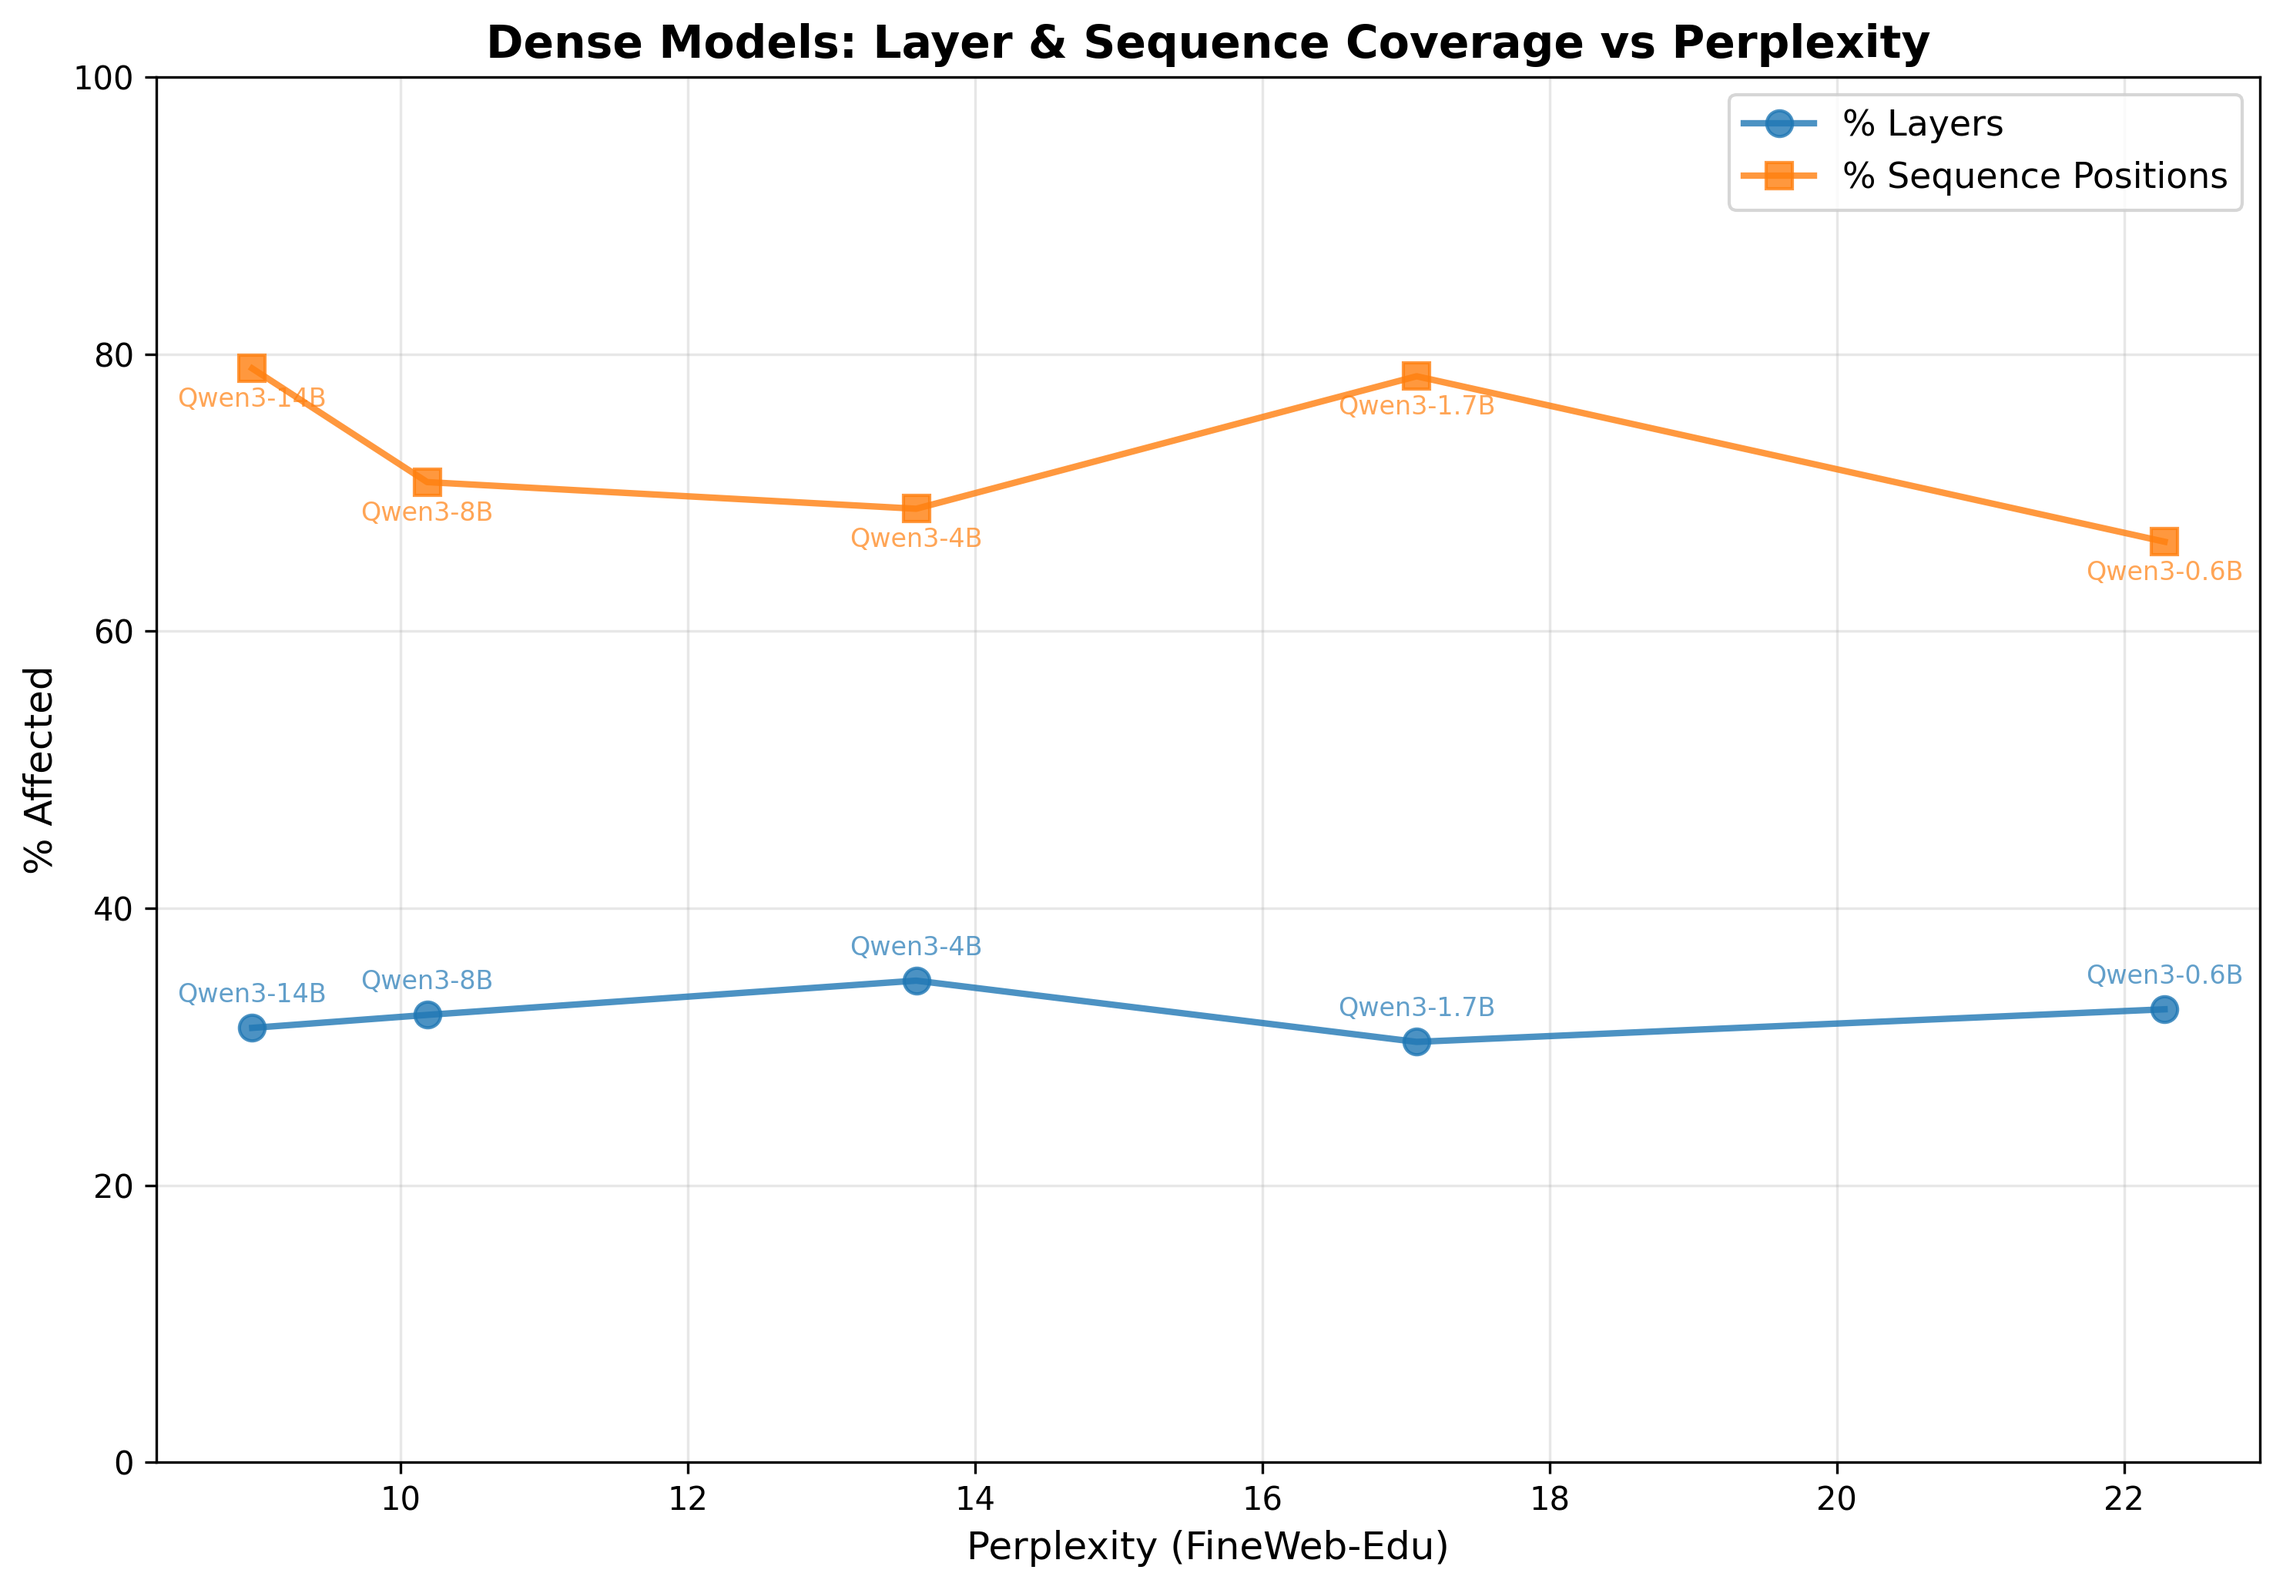
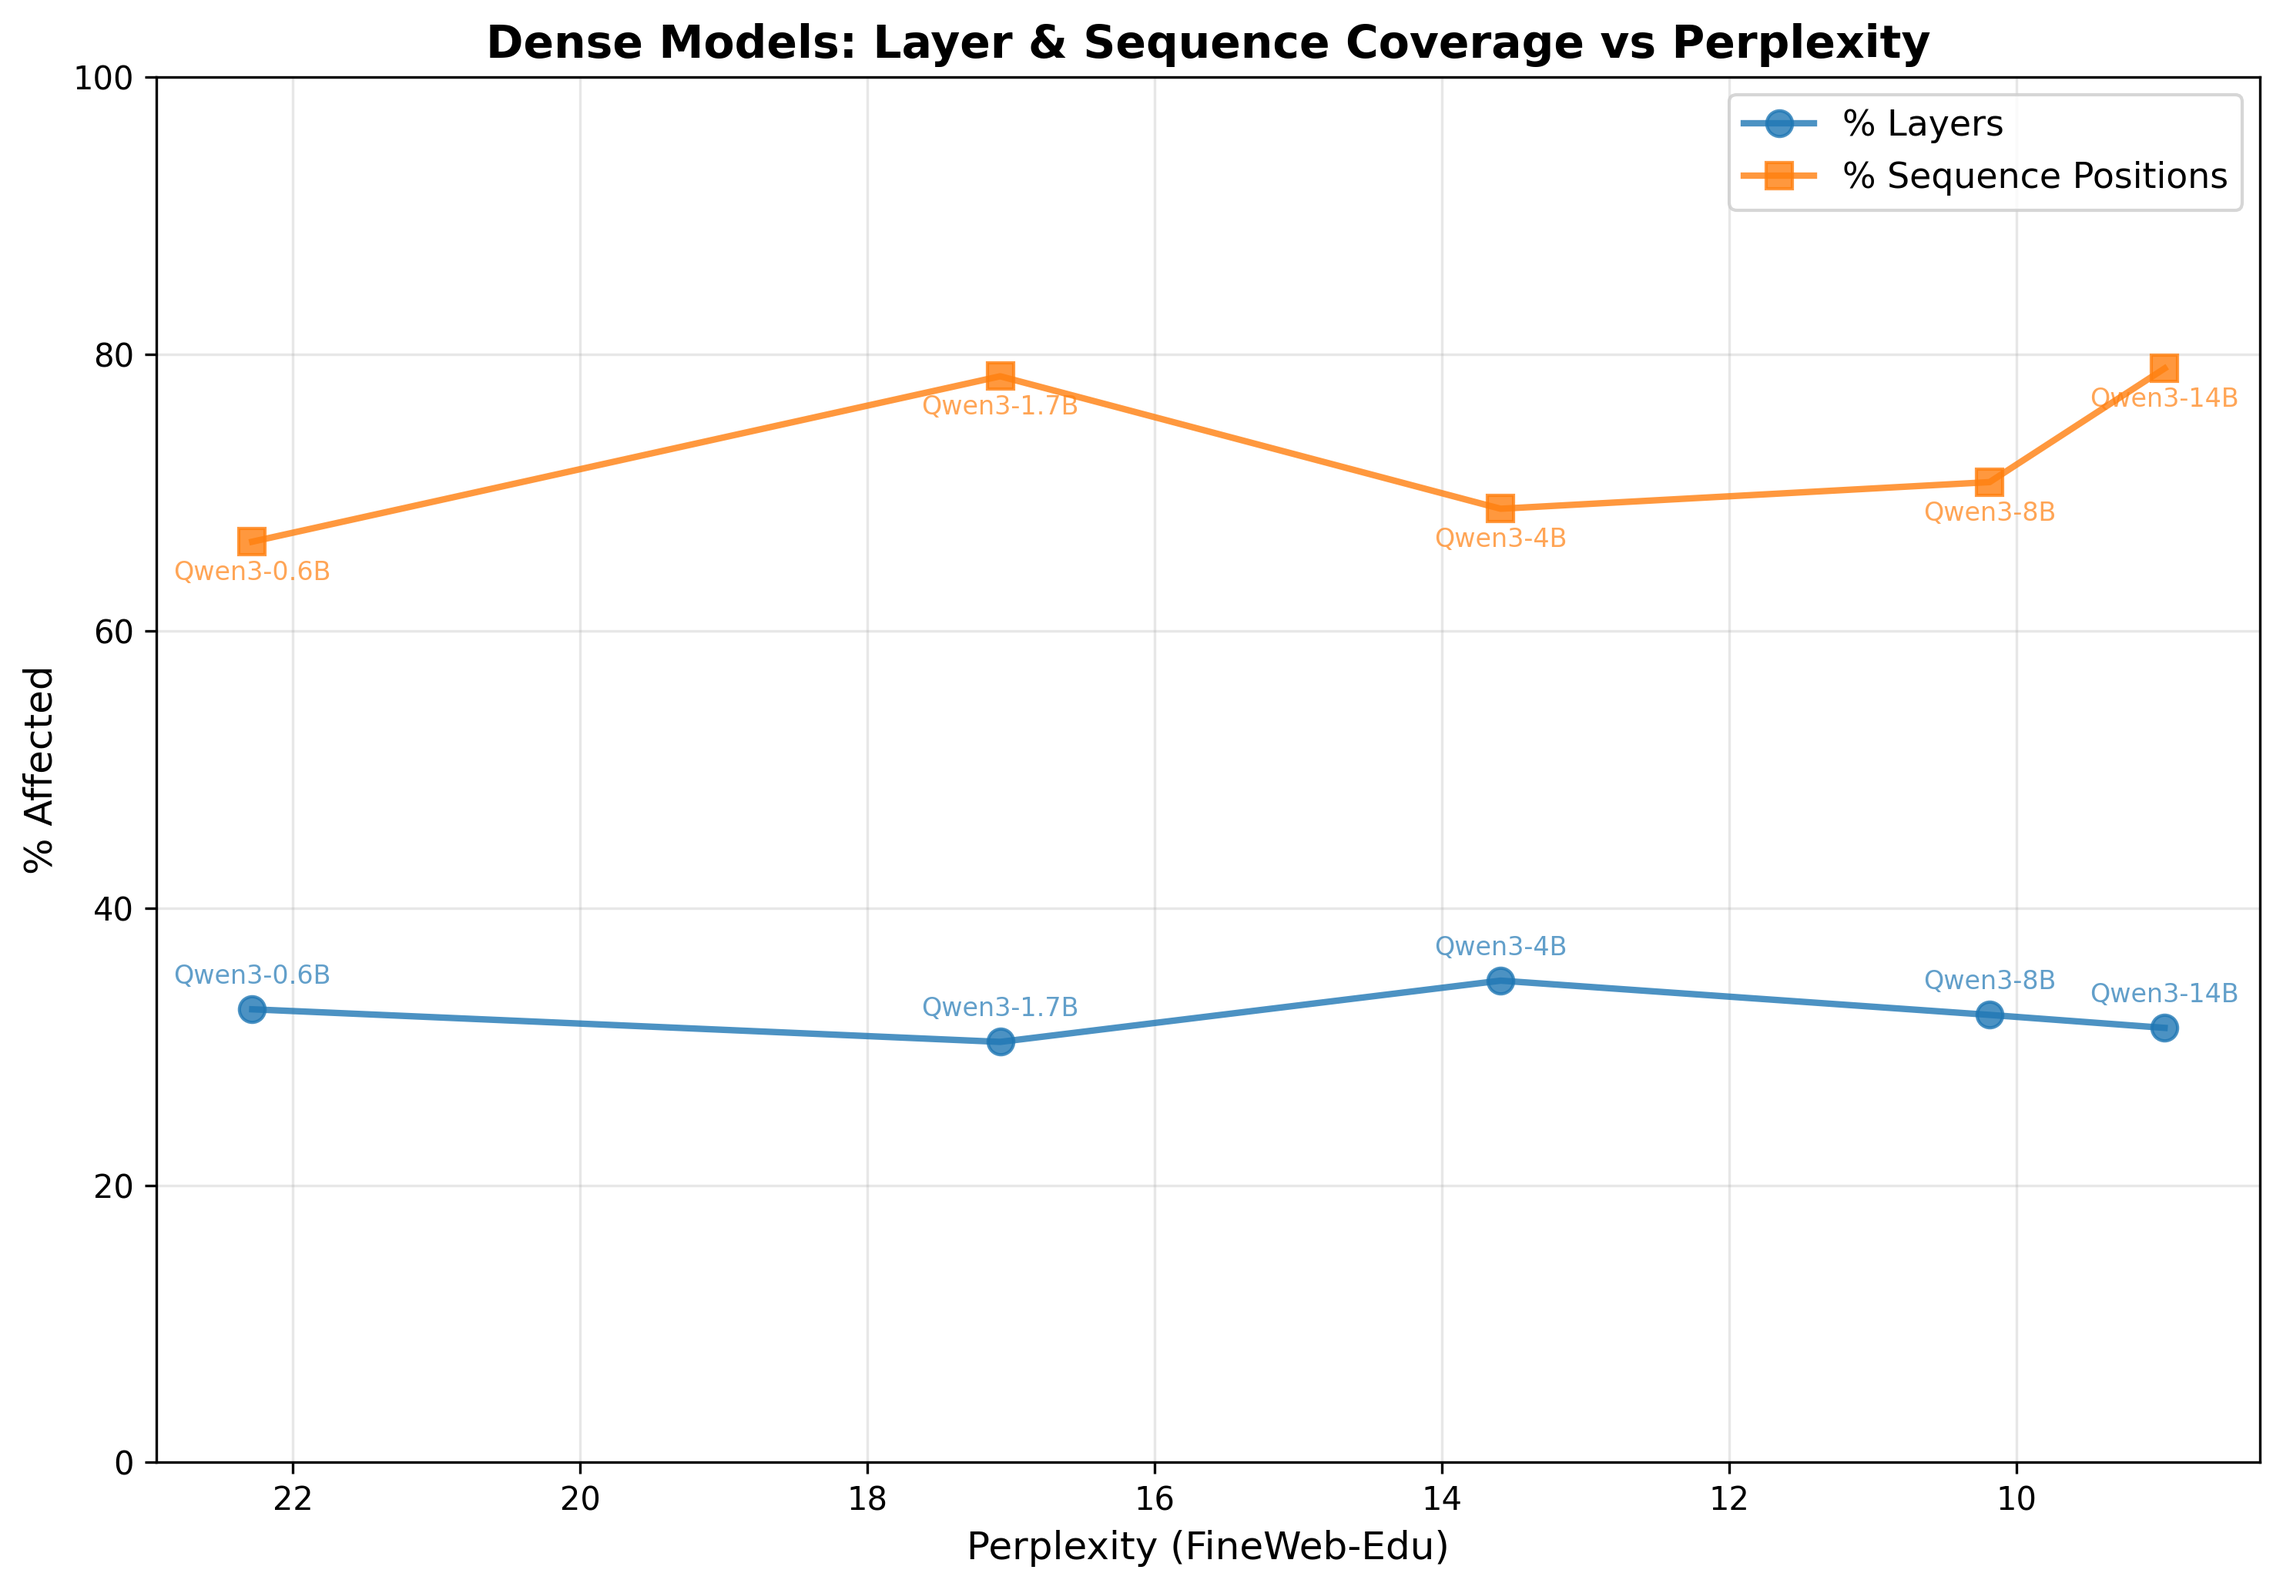
Flip perplexity x-axis and remove MoE perplexity data
- Flip perplexity x-axis to match Dettmers convention (high→low, left→right)
- Remove perplexity column from MoE models table (instruct-tuned, response format issues)
- Add note explaining why perplexity not reported for MoE models
- Update perplexity plot with inverted x-axis
- Add y = prefix to residual stream equations for clarity

🤖 Generated with [Claude Code](https://claude.com/claude-code)

diff --git a/_posts/2025-10-28-outlier-features.md b/_posts/2025-10-28-outlier-features.md
@@ -15,41 +15,47 @@ reading RL rollouts while post-training small models, I noticed a huge gap in in
 
 naturally my first thought upon finding this was 'well is it 7B total or active'. I think the tweets I saw were talking about dense models, so it wasn't exactly clear what the answer would be here. digging through the threads, I found references to Tim Dettmers' 2022 paper on int8 quantization, and decided to read it.
 
-in the process of getting int8 quantization to work, dettmers found what he called 'outlier features' in model residual streams. he found that specific dimension indices had extreme magnitude values (>= 6.0, compared to typical ranges +- 3.5) that showed up across layers and tokens in the residual stream tensor.
+in the process of getting int8 quantization to work, dettmers found what he called 'outlier features' in model residual streams. residual streams act as a communication channel for deep models to more effectively stack processing layers for more depth. rather than computing `y = g_0(g_1(g_2(x)))` and implicitly recomputing the output so far, models can instead compute `y = x + g_0(x) + g_1(x) + g_2(x)`, where each layer reads from and writes to the shared 'working memory' accumulated so far. 
+
+outlier features are essentially specific dimension indices within the residual stream that had extreme magnitude values (>= 6.0, compared to typical ranges +- 3.5) that showed up across layers and tokens in the residual stream tensor.
 
 the intuitive explanation is that transformers have two processing streams: one that processes inputs, and one that suppresses noisy features that aren't relevant to the current context. dedicating specific hidden dimensions to feature removal means that layers can coordinate, and know which dimensions can be multiplied by large values to suppress other features. (more on this [here](https://timdettmers.com/2022/08/17/llm-int8-and-emergent-features/))
 
-to visualize this, here's an example showing how outlier features persist through layer computations. these tensors are in [batch, sequence, hidden_dim] format, with typical values ranging from -3 to +3, but outlier dimensions showing values of 6-9:
+in particular, dettmers studied the presence of outlier features along layers, as well as along a given sequence's tokens. in particular, he dubbed an outlier feature to be one that was present in at least 25% of the layers, 6% of the sequence positions, and magnitude at least 6.0.
+
+here's quick visualization of outlier features persisting through a layer's computations. these tensors are in [batch, sequence, hidden_dim] format (shape 2,3,4), with typical values ranging from -3 to +3, but outlier dimensions showing values of 6-9:
+
 
 ```
-Input residual stream (dimension 2 has outliers):
+input residual stream (dimension 2 has outliers):
 -3   0   6  -2     0   3   6   1
 -2  -3   6   1     3  -1   9  -3
 -2   0   8   3     0  -2   6  -2
 
            +
 
-Layer contribution:
+layer contribution:
 -1   1   1  -1     2  -1   0  -1
 -1   1   1  -1    -2   1   0   1
  1   1   1   2     2  -2   0   2
 
            =
 
-Output residual stream (outlier persists in dimension 2):
+output residual stream (outlier persists in dimension 2):
 -4   1   7  -3     2   2   6   0
 -3  -2   7   0     1   0   9  -2
 -1   1   9   5     2  -4   6   0
 ```
 
-notice how dimension 2 (third column) maintains high values of 6-9 across all sequence positions in both batches, even after adding the layer contribution. this systematic appearance across layers and tokens is what dettmers called "layer coordination."
+
+notice how dimension 2 (third column, hidden dimension) maintains high values of 6-9 across all sequence positions in both batches, even after adding the layer contribution. this systematic appearance across layers and tokens is layer coordination
 
 dettmers' found that these extreme magnitude values in model residual streams started to systematically coordinate across layers around ~6.7B parameters. he called this a phase transition and claimed that 'transformers after the phase shift at 6.7B parameters behave very different to transformers before the phase shift ... one should not try to generalize from <6.7B to beyond'. this is a pretty strong claim, so I thought it would be important for my own experiments to find out how this claim held up for MoE models. 
 
 ![Dettmers Phase Transition](/assets/images/dettmers-phase-transition.png)
 *figure 3 from Dettmers et al. (2022): percentage of layers and sequence dimensions affected by large magnitude outlier features across transformers by (a) model size or (b) C4 perplexity. shows the phase transition at ~6.7B parameters.*
 
-so I ran the experiment Dettmers' did. I swept over 7 MoE models that have come out recently, to try to pinpoint a phase transition point, either based on active/total parameters, or perhaps even related to the sparsity. I suspected it would be based on total params, since that would be more related to 'total model capacity', or that we wouldn't find it at all due to the router.
+so i ran the experiment Dettmers' did. i swept over 7 MoE models that have come out recently, to try to pinpoint a phase transition point, either based on active/total parameters, or perhaps even related to the sparsity. i suspected it would be based on total params, since that would be more related to 'total model capacity', or that we wouldn't find it at all due to the router.
 
 the MoE results were messy - basically no pattern. outliers ranged from 49 to 4,635, layer coordination (L%) was all over the place from 29% to 63%.
 
@@ -59,14 +65,14 @@ the MoE results were messy - basically no pattern. outliers ranged from 49 to 4,
 ![MoE Models - Active Parameters vs Layer & Sequence Coverage](/assets/images/moe_active_params_dual.png)
 *figure 2: similarly messy results when plotted by active parameters*
 
-so I thought my hypothesis about the routing was most likely. but then I remembered these were also 2024-2025 models, and Dettmers was using models from 2022, basically an eternity ago. to be rigorous, I decided to run another sweep on some frontier open dense models, specifically the Qwen3 series
+so i thought my hypothesis about the routing was most likely. but then i remembered these were also 2024-2025 models, and Dettmers was using models from 2022, basically an eternity ago. to be rigorous, i decided to run another sweep on some frontier open dense models, specifically the Qwen3 series
 
 here's where it gets interesting.
 
 ![Dense Models - Parameters vs Layer & Sequence Coverage](/assets/images/dense_params_dual.png)
 *figure 3: qwen3 dense models show stable ~30% layer coordination (blue) and high ~66-79% sequence coverage (orange) across all sizes - no phase transition*
 
-instead of seeing the phase transition Dettmers found at 6.7B, I found something completely different: stable ~30% layer coordination across ALL model sizes. no phase transition. interestingly, the sequence coverage is consistently high (~66-79%), meaning outliers affect most tokens when they appear.
+instead of seeing the phase transition Dettmers found at 6.7B, i found ~30% layer coordination across ALL model sizes. no phase transition. interestingly, the sequence coverage is consistently high (~66-79%), meaning outliers still affect most tokens when they appear.
 
 its not clear what's changed between 2022 and 2025. one hypothesis is that we've had so many architectural improvements between now and 2022: RoPE, RMSNorm, new FFNs/activation functions like SwiGLU. so its hard to say what exactly might have changed the need for these outlier features.
 
@@ -99,15 +105,17 @@ below are some more details on methodology, and the code is available [here](htt
 
 ### MoE Models Results
 
-| Model | Total Params | Active Params | Perplexity | Experts | Top-K | Routing | Outliers | Mean L% | Mean S% |
-|-------|--------------|---------------|------------|---------|-------|---------|----------|---------|---------|
-| OLMoE-1B-7B | 7B | 1.3B | 9.27 | 64 | 8 | Token-based (dropless) | 49 | 29.5% | 13.6% |
-| GPT-OSS-20B | 21B | 3.6B | 389.28 | 128* | 4* | Standard top-k | 1,465 | 38.1% | 45.4% |
-| Qwen3-30B | 30.5B | 3.3B | 9.10 | 128 | 8 | Standard top-k | 110 | 35.5% | 45.1% |
-| Mixtral-8x7B | 47B | 12.9B | 6.04 | 8 | 2 | Standard top-k | 4,635 | 50.2% | 37.4% |
-| Qwen3-Next-80B | 80B | 3.0B | 5.56 | 512+1 shared | 10 | Standard top-k | 504 | 57.5% | 35.1% |
-| GLM-4.5-Air | 106B | 12.0B | - | 128+1 shared | 8 | Sigmoid gating (loss-free balance) | 459 | 63.3% | 45.7% |
-| GPT-OSS-120B | 117B | 5.1B | 93.20 | 128 | 4 | Softmax-weighted top-k | 1,695 | 33.1% | 50.0% |
+| Model | Total Params | Active Params | Experts | Top-K | Routing | Outliers | Mean L% | Mean S% |
+|-------|--------------|---------------|---------|-------|---------|----------|---------|---------|
+| OLMoE-1B-7B | 7B | 1.3B | 64 | 8 | Token-based (dropless) | 49 | 29.5% | 13.6% |
+| GPT-OSS-20B | 21B | 3.6B | 128* | 4* | Standard top-k | 1,465 | 38.1% | 45.4% |
+| Qwen3-30B | 30.5B | 3.3B | 128 | 8 | Standard top-k | 110 | 35.5% | 45.1% |
+| Mixtral-8x7B | 47B | 12.9B | 8 | 2 | Standard top-k | 4,635 | 50.2% | 37.4% |
+| Qwen3-Next-80B | 80B | 3.0B | 512+1 shared | 10 | Standard top-k | 504 | 57.5% | 35.1% |
+| GLM-4.5-Air | 106B | 12.0B | 128+1 shared | 8 | Sigmoid gating (loss-free balance) | 459 | 63.3% | 45.7% |
+| GPT-OSS-120B | 117B | 5.1B | 128 | 4 | Softmax-weighted top-k | 1,695 | 33.1% | 50.0% |
+
+*Note: Perplexity not reported for MoE models due to instruct-tuning and response format considerations.*
 
 **Metric Definitions:**
 - **L%** = avg % of layers each outlier affects
